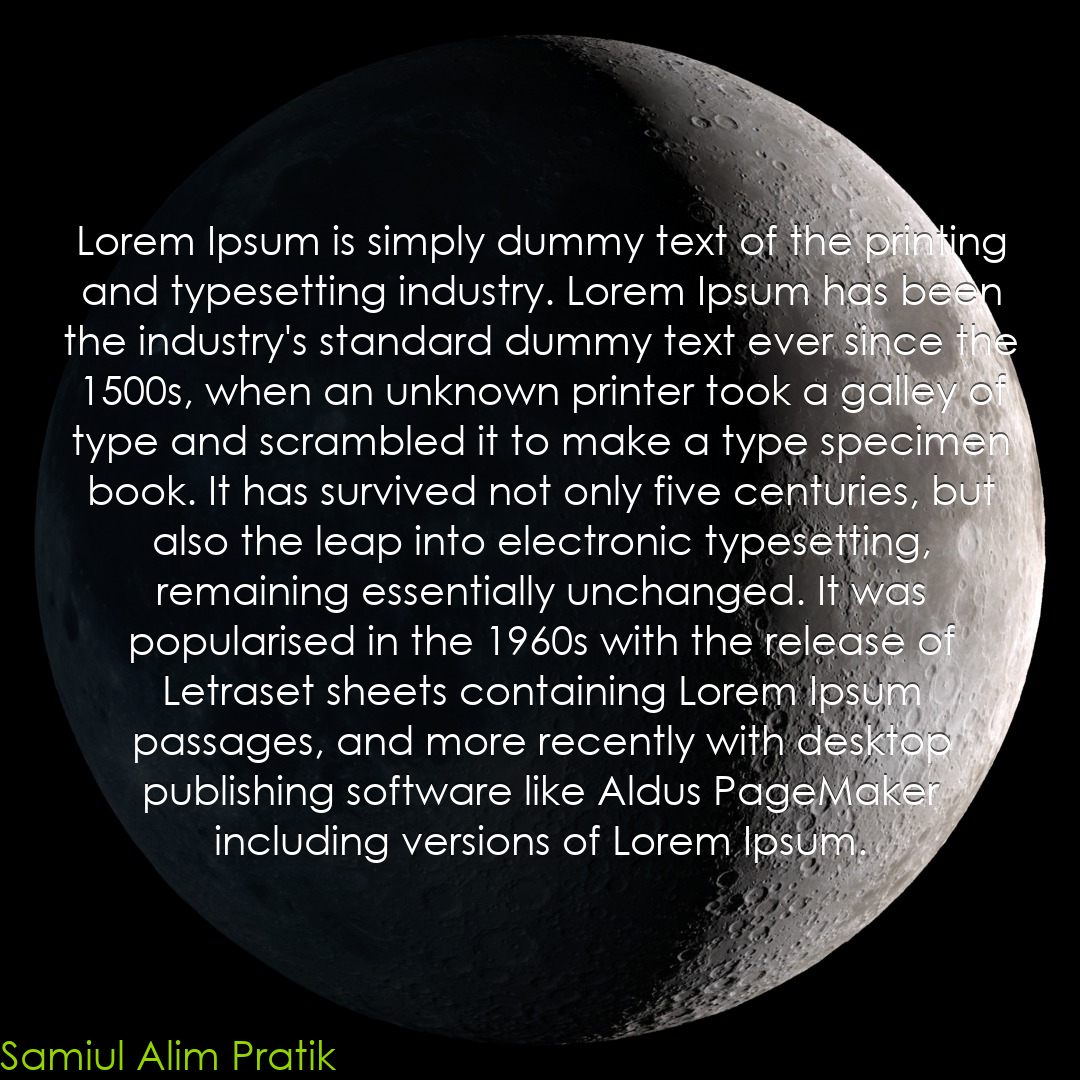
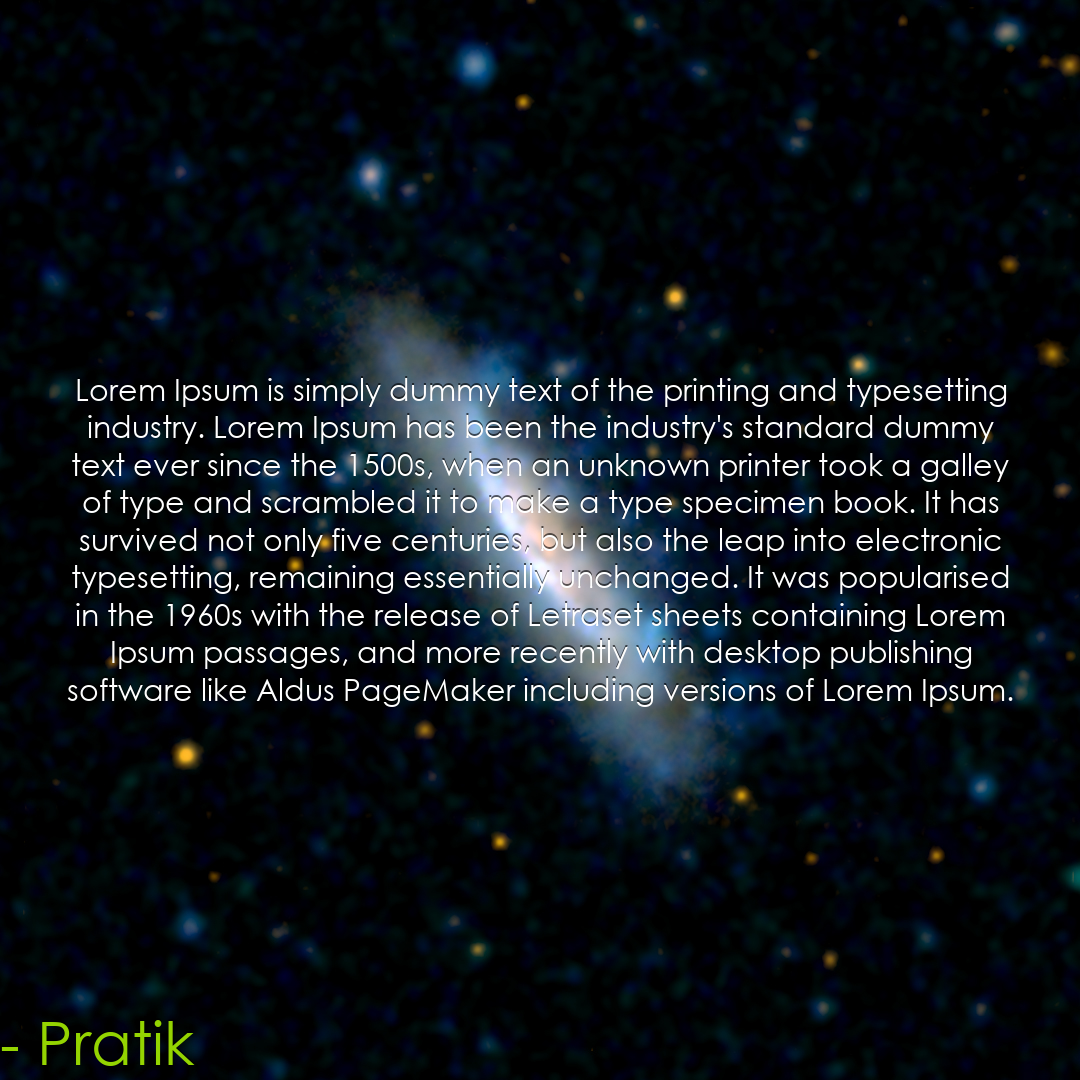
font size for story added and middle button for putting the text in the middle of the image

diff --git a/index.php b/index.php
@@ -10,9 +10,9 @@
   <script src="https://maxcdn.bootstrapcdn.com/bootstrap/3.3.7/js/bootstrap.min.js"></script>
 
   <style media="screen">
-    .active {
-      color: blue;
-      font-size: 20px;
+    .active-middle {
+      color: blue !important;
+      font-size: 16px !important;
     }
   </style>
 </head>
@@ -50,12 +50,35 @@
         </div>
         <div class="form-group">
           <label for="">Name</label>
-          <input type="text" class="form-control" id="name" name="name" oninput="generate_image()">
+          <input type="text" class="form-control" id="name" name="name" oninput="generate_image()"><br>
+          <select class="form-control" id="nameFontSize" name="nameFontSize" onchange="changeFontSizeName(this.value)">
+            <option value="" selected disabled>Select font size for name</option>
+            <option value="20">20</option>
+            <option value="30">30</option>
+            <option value="40">40</option>
+            <option value="50">50</option>
+            <option value="60">60</option>
+            <option value="70">70</option>
+            <option value="80">80</option>
+          </select>
         </div>
         <label for="">Story</label>
-        <div class="input-group">
-          <span style="cursor:pointer;" class="input-group-addon" onclick="toggleCenter()"><i class="fas fa-align-center" id="centerAlignIcon"></i></span>
+        <div class="form-group">
+          <!-- <i class="fas fa-align-center" id="centerAlignIcon"></i> -->
+          <p>
+            <button id="middleText" class="btn btn-default" onclick="toggleCenter(event)">Middle</button>
+          </p>
           <textarea id="story" name="story" rows="5" style="width:100%;" oninput="generate_image()" onblur="generate_image()"></textarea>
+          <select class="form-control" id="storyFontSize" name="storyFontSize" onchange="changeFontSizeStory(this.value)">
+            <option value="" selected disabled>Select font size for story</option>
+            <option value="20">20</option>
+            <option value="30">30</option>
+            <option value="40">40</option>
+            <option value="50">50</option>
+            <option value="60">60</option>
+            <option value="70">70</option>
+            <option value="80">80</option>
+          </select>
         </div><br>
         <div class="form-group text-center">
           <a href="save-images/download.jpg" class="btn btn-primary" value="Save Image" id="" download>Save Image</a>
@@ -73,6 +96,8 @@
 <script>
   var position1 = 'left';
   var position2 = 'top';
+  var nameFontSize = 40;
+  var storyFontSize = 40;
   // calling this function after every change in input field...
   function generate_image() {
     var name = $("#name").val();
@@ -85,6 +110,8 @@
     fd.append('template', template);
     fd.append('pos1', position1);
     fd.append('pos2', position2);
+    fd.append('nameFontSize', nameFontSize);
+    fd.append('storyFontSize', storyFontSize);
 
     // console.log(name);
     // console.log(story);
@@ -104,8 +131,10 @@
     })
   }
 
-  function toggleCenter() {
-    $("#centerAlignIcon").toggleClass('active');
+  // after clicking the middle button...
+  function toggleCenter(e) {
+    e.preventDefault();
+    $("#middleText").toggleClass('active-middle');
     if (position1 == 'left') {
       position1 = 'center';
       position2 = 'center';
@@ -117,10 +146,25 @@
     generate_image();
   }
 
+  // shows current condition of the image after clicking render button...
   function displayCurrImg() {
     d = new Date();
     // query string helps to clear the cached image...
     $("#poster").attr("src", "save-images/download.jpg?"+d.getTime());
+  }
+
+  // changing font size for name field...
+  function changeFontSizeName(fontSize) {
+    nameFontSize = fontSize;
+    console.log(fontSize);
+    generate_image();
+  }
+
+  // changing font size for story field...
+  function changeFontSizeStory(fontSize) {
+    storyFontSize = fontSize;
+    console.log(fontSize);
+    generate_image();
   }
 </script>
 

diff --git a/generate_image.php b/generate_image.php
@@ -6,6 +6,8 @@ $story = $_POST['story'];
 $template = $_POST['template'];
 $pos1 = $_POST['pos1'];
 $pos2 = $_POST['pos2'];
+$nameFontSize = $_POST['nameFontSize'];
+$storyFontSize = $_POST['storyFontSize'];
 
 use GDText\Box;
 use GDText\Color;
@@ -20,7 +22,7 @@ if(empty($template)) {
 // inserting text in the center of the image
 $box = new Box($im);
 $box->setFontFace('fonts/century-gothic-regular.ttf');
-$box->setFontSize(40);
+$box->setFontSize($storyFontSize);
 $box->setFontColor(new Color(255, 255, 255));
 $box->setTextShadow(new Color(0, 0, 0, 50), 0, -2);
 $box->setBox(60, 60, 960, 960);
@@ -30,7 +32,7 @@ $box->draw($story);
 // inserting text in the left-bottom corner of the image...
 $box = new Box($im);
 $box->setFontFace('fonts/century-gothic-regular.ttf');
-$box->setFontSize(40);
+$box->setFontSize($nameFontSize);
 $box->setFontColor(new Color(148, 212, 1));
 $box->setTextShadow(new Color(0, 0, 0, 50), 0, -2);
 $box->setBox(0, 0, 1080, 1080);
